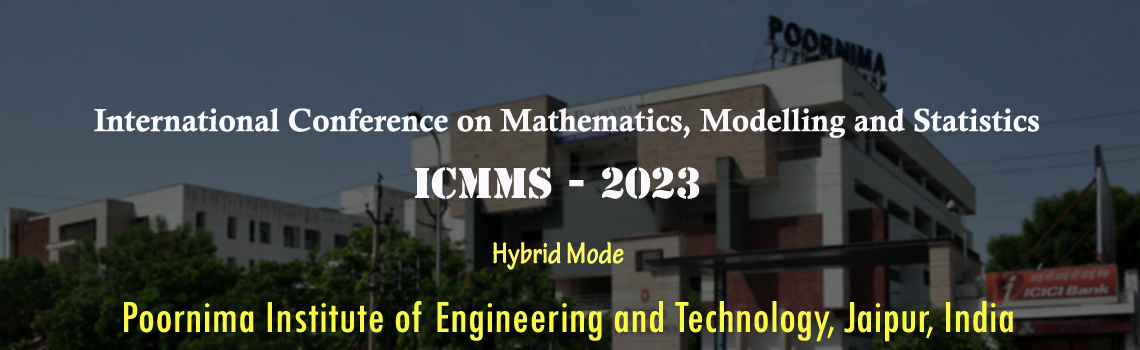
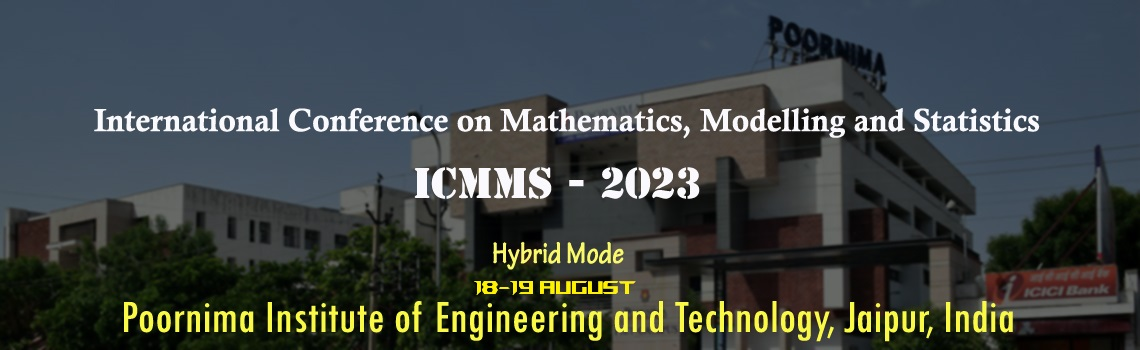
final changes

diff --git a/index.html b/index.html
@@ -74,7 +74,7 @@
           
           <li class="nav-item dropdown px-2">
             <a class="nav-link dropdown-toggle" href="#" id="navbarDarkDropdownMenuLink" role="button" data-bs-toggle="dropdown" aria-expanded="false">
-              Special Sessions
+              Tracks/Dates
             </a>
             <ul class="dropdown-menu dropdown-menu-dark" aria-labelledby="navbarDarkDropdownMenuLink">
               <li><a class="dropdown-item" href="Call for Sessions.html">Call for Sessions</a></li>
@@ -99,7 +99,11 @@
       class="i mt-2" src="images\title2.jpg">
     
   <div class="container container-shadow">
+<<<<<<< Updated upstream
     <h2 data-aos="fade-up" data-aos-duration="1000"  class="text-center py-3 text-secondary text-opacity-75">About the conference</h2>
+=======
+    <h2 data-aos="fade-up" data-aos-duration="1000" data-aos-offset="250" class="text-center py-3 text-secondary text-opacity-75">About The Conference</h2>
+>>>>>>> Stashed changes
         <div class="row justify-self-center">
           <div data-aos="fade-left" data-aos-duration="1000" class="col-md-7 align-self-center px-3 py-5 rounded-2 container-shadow">
             <h3 class="text-info ">Objective of the Conference:</h3>
@@ -280,30 +284,6 @@
   <!-- Row 1-->
       <div class="paperCall">
         <div class="row row-cols-md-2">
-
-    <!-- Row 1.1 -->
-          <div class="col-lg-6 order-md-2 align-self-center">
-            <img data-aos="fade-in" data-aos-duration="1000" class="img-fluid "src="images\pgi1.jpg">
-          </div>
-
-          <div data-aos="fade-left" data-aos-duration="1000"
-          class="col-lg-6 container-shadow p-2 order-md-1">
-            <h1 class="text-info text-opacity-75">About Poornima Group</h1>
-            <p>Poornima Group is promoted by Shanti Education Society (SES) which came into existence
-              in 1999 by registering under Rajasthan Societies Act. The founder chairman of SES is Shri
-              Manohar Lal Singhi &amp; founder Vice Chairman is Late Shri Arun Chandra Singhi. The main
-              objective of SES is to promote Technical &amp; Professional Education in the state of Rajasthan
-              with state of art infrastructure and strong academic philosophy. Its secretary, Ar. Shashikant
-              Singhi, who has been a noted practitioner of Architecture and technocrat of repute, presently
-              manages Society and its constituent institutions. Other members of the society are well
-              known professionals.
-              Shanti Education Society today has more than 50 Acres of land in the RIICO area of Sitapura
-              in the form of four world-class campuses. Poornima has at its disposal a built-up area of 15
-              lacs sq. ft., which include instructional, administrative, recreation and residential areas.
-              Poornima also has a state of art auditorium and in campus faculty housing. Our hostels can
-              accommodate 2000 students in 18 hostels.</p>
-          </div>
-
     <!-- Row 1.2 -->
         <div class="col-lg-6 align-self-center order-md-3">
           <img data-aos="fade-in" data-aos-duration="1000" class="img-fluid"src="images\piet1.png">
@@ -347,6 +327,35 @@
               The department has completed funded projects and FDPs under TEQIP-III.</p>
           </div>
         </div>
+        <div data-aos="fade-right" data-aos-duration="1000" class="pt-4">
+            <h3 class="text-info">Important Dates</h3>
+            <table class="center">
+              <tr>
+                <th>Full Paper Submission</th>
+                <td>April 30, 2023</td>
+              </tr>
+              <tr>
+                <th>Acceptance of Paper</th>
+                <td>May 30, 2023</td>
+              </tr>
+              <tr>
+                <th>Camera Ready Paper Submission</th>
+                <td>June 15, 2023</td>
+              </tr>
+              <tr>
+                <th>Early bird Registration</th>
+                <td>June 15, 2023</td>
+              </tr>
+              <tr>
+                <th>Late Registration</th>
+                <td>June 15, 2023</td>
+              </tr>
+              <tr>
+                <th>Conference Date</th>
+                <td>18 &amp; 19 August 2023</td>
+              </tr>
+            </table>
+          </div>
       </div>
     </div>
   </div>

diff --git a/subGuidlines.html b/subGuidlines.html
@@ -71,7 +71,7 @@
           
           <li class="nav-item dropdown px-2">
             <a class="nav-link dropdown-toggle" href="#" id="navbarDarkDropdownMenuLink" role="button" data-bs-toggle="dropdown" aria-expanded="false">
-              Special Sessions
+              Tracks/Dates
             </a>
             <ul class="dropdown-menu dropdown-menu-dark" aria-labelledby="navbarDarkDropdownMenuLink">
               <li><a class="dropdown-item" href="Call for Sessions.html">Call for Sessions</a></li>
@@ -104,7 +104,7 @@
           <h3 class="p-4 text-primary text-opacity-75">Author Guidelines:</h3> 
           <ul class="list-group list-group-flush paperCall2 fs-6 ps-1">
               <li class="list-group-item">The conference language is English. Original and unpublished works are encouraged for presentation in the conference.</li>
-              <li class="list-group-item">All the manuscript should be submitted using https://cmt3.research.microsoft.com/ICMMS2023 in DOCX (WORD)/pdf format. </li>
+              <li class="list-group-item">All the manuscript submissions will be handled electronically using Microsoft (CMT) via the conference website. Log on to Microsoft (CMT) using the link given below for submitting your paper to ICMMS-2023:  https://cmt3.research.microsoft.com/ICMMS2023</li>
               <li class="list-group-item">Maximum number of pages allowed will be 06 (Six).</li>
               <li class="list-group-item">Authors should ensure that the similarity score of their research paper is not above 10%.</li>
               <li class="list-group-item">Manuscripts having similarity score more than 10 % shall not be processed.</li>

diff --git a/Call for Sessions.html b/Call for Sessions.html
@@ -69,7 +69,7 @@
           
           <li class="nav-item dropdown px-2">
             <a class="nav-link dropdown-toggle active" href="#" id="navbarDarkDropdownMenuLink" role="button" data-bs-toggle="dropdown" aria-expanded="false">
-              Special Sessions
+              Tracks/Dates
             </a>
             <ul class="dropdown-menu dropdown-menu-dark" aria-labelledby="navbarDarkDropdownMenuLink">
               <li><a class="dropdown-item active" href="Call for Sessions.html">Call for Sessions</a></li>

diff --git a/Accommodation.html b/Accommodation.html
@@ -69,7 +69,7 @@
           
           <li class="nav-item dropdown px-2">
             <a class="nav-link dropdown-toggle" href="#" id="navbarDarkDropdownMenuLink" role="button" data-bs-toggle="dropdown" aria-expanded="false">
-              Special Sessions
+              Tracks/Dates
             </a>
             <ul class="dropdown-menu dropdown-menu-dark" aria-labelledby="navbarDarkDropdownMenuLink">
               <li><a class="dropdown-item" href="Call for Sessions.html">Call for Sessions</a></li>

diff --git a/Committee.html b/Committee.html
@@ -71,7 +71,7 @@
           
           <li class="nav-item dropdown px-2">
             <a class="nav-link dropdown-toggle" href="#" id="navbarDarkDropdownMenuLink" role="button" data-bs-toggle="dropdown" aria-expanded="false">
-              Special Sessions
+              Tracks/Dates
             </a>
             <ul class="dropdown-menu dropdown-menu-dark" aria-labelledby="navbarDarkDropdownMenuLink">
               <li><a class="dropdown-item" href="Call for Sessions.html">Call for Sessions</a></li>

diff --git a/Registration.html b/Registration.html
@@ -71,7 +71,7 @@
           
           <li class="nav-item dropdown px-2">
             <a class="nav-link dropdown-toggle" href="#" id="navbarDarkDropdownMenuLink" role="button" data-bs-toggle="dropdown" aria-expanded="false">
-              Special Sessions
+              Tracks/Dates
             </a>
             <ul class="dropdown-menu dropdown-menu-dark" aria-labelledby="navbarDarkDropdownMenuLink">
               <li><a class="dropdown-item" href="Call for Sessions.html">Call for Sessions</a></li>

diff --git a/Venue.html b/Venue.html
@@ -71,7 +71,7 @@
           
           <li class="nav-item dropdown px-2">
             <a class="nav-link dropdown-toggle" href="#" id="navbarDarkDropdownMenuLink" role="button" data-bs-toggle="dropdown" aria-expanded="false">
-              Special Sessions
+              Tracks/Dates
             </a>
             <ul class="dropdown-menu dropdown-menu-dark" aria-labelledby="navbarDarkDropdownMenuLink">
               <li><a class="dropdown-item" href="Call for Sessions.html">Call for Sessions</a></li>

diff --git a/contact.html b/contact.html
@@ -71,7 +71,7 @@
           
           <li class="nav-item dropdown px-2">
             <a class="nav-link dropdown-toggle" href="#" id="navbarDarkDropdownMenuLink" role="button" data-bs-toggle="dropdown" aria-expanded="false">
-              Special Sessions
+              Tracks/Dates
             </a>
             <ul class="dropdown-menu dropdown-menu-dark" aria-labelledby="navbarDarkDropdownMenuLink">
               <li><a class="dropdown-item" href="Call for Sessions.html">Call for Sessions</a></li>
